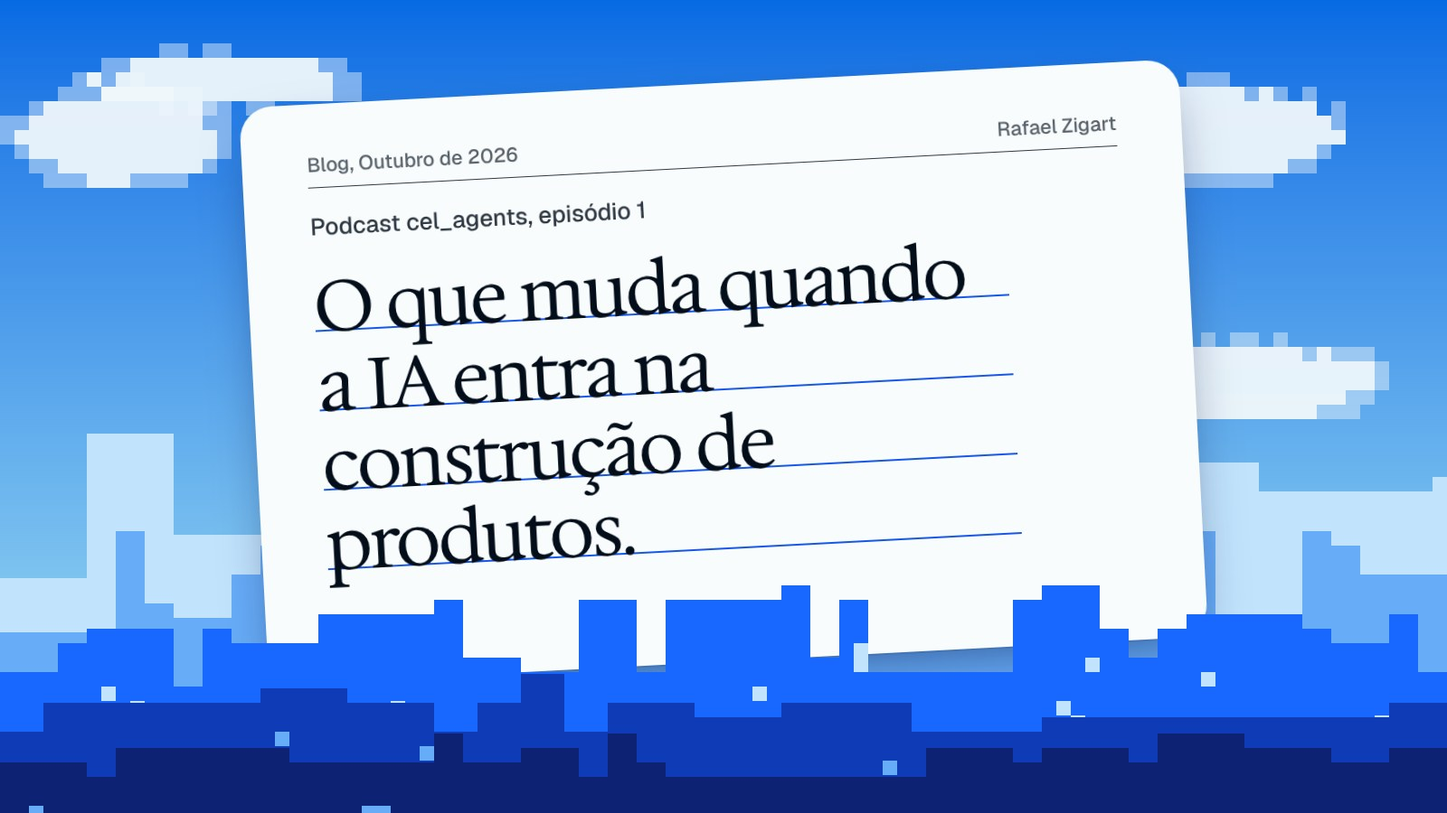
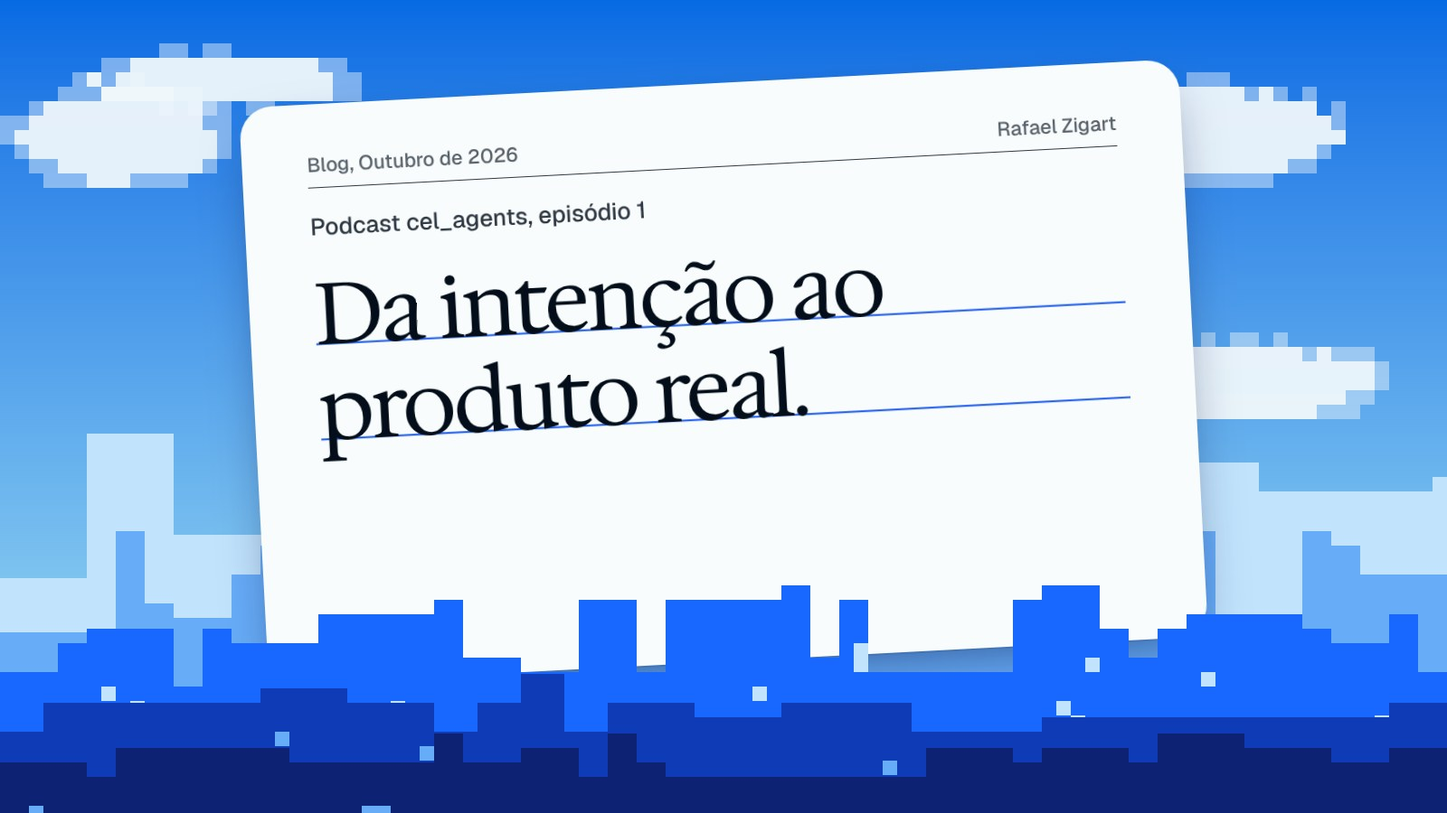
Posts dos episódios 1 e 3 do cel_agents (#17)
Claude-Session: https://claude.ai/code/session_01RRVHz4eTtsGg1hUuv1ogdm

Changed region(s): [[0.2188, 0.3111, 0.75, 0.7156], [0.6875, 0.4667, 0.7812, 0.4978], [0.6562, 0.4356, 0.6875, 0.4667]]

diff --git a/blog/ia-na-construcao-de-produtos-financeiros.html b/blog/ia-na-construcao-de-produtos-financeiros.html
@@ -3,22 +3,22 @@
 <head>
 <meta charset="utf-8">
 <meta name="viewport" content="width=device-width, initial-scale=1">
-<title>O que muda quando a IA entra na construção de produtos, Rafael Zigart</title>
-<meta name="description" content="Rafael Zigart conversa com Adriano Meirinho sobre IA na construção de produtos financeiros, no primeiro episódio da série sobre o cel_agents.">
+<title>Da intenção ao produto real: o que muda quando a IA entra na construção de produtos financeiros, Rafael Zigart</title>
+<meta name="description" content="Rafael Zigart conta, a partir do episódio 1 do cel_agents, por que colocar um produto financeiro no ar levava de três a dez meses e o que muda quando a IA participa desde o começo.">
 <link rel="icon" href="../favicon.svg" type="image/svg+xml">
 <link rel="canonical" href="https://rafaelribeirozigart.github.io/zigart.com/blog/ia-na-construcao-de-produtos-financeiros.html">
 <meta name="author" content="Rafael Zigart">
 <meta property="og:type" content="article">
 <meta property="og:site_name" content="Rafael Zigart">
 <meta property="og:locale" content="pt_BR">
-<meta property="og:title" content="O que muda quando a IA entra na construção de produtos, Rafael Zigart">
-<meta property="og:description" content="Rafael Zigart conversa com Adriano Meirinho sobre IA na construção de produtos financeiros, no primeiro episódio da série sobre o cel_agents.">
+<meta property="og:title" content="Da intenção ao produto real: o que muda quando a IA entra na construção de produtos financeiros">
+<meta property="og:description" content="Rafael Zigart conta, a partir do episódio 1 do cel_agents, por que colocar um produto financeiro no ar levava de três a dez meses e o que muda quando a IA participa desde o começo.">
 <meta property="og:url" content="https://rafaelribeirozigart.github.io/zigart.com/blog/ia-na-construcao-de-produtos-financeiros.html">
 <meta property="og:image" content="https://rafaelribeirozigart.github.io/zigart.com/images/blog/ia-na-construcao-de-produtos-financeiros.jpg">
 <meta property="og:image:width" content="1600">
 <meta property="og:image:height" content="900">
 <meta name="twitter:card" content="summary_large_image">
-<script type="application/ld+json">{"@context": "https://schema.org", "@type": "BlogPosting", "headline": "O que muda quando a IA entra na construção de produtos", "inLanguage": "pt-BR", "datePublished": "2026-10-29", "image": "https://rafaelribeirozigart.github.io/zigart.com/images/blog/ia-na-construcao-de-produtos-financeiros.jpg", "author": {"@type": "Person", "name": "Rafael Zigart", "url": "https://rafaelribeirozigart.github.io/zigart.com/"}, "mainEntityOfPage": "https://rafaelribeirozigart.github.io/zigart.com/blog/ia-na-construcao-de-produtos-financeiros.html"}</script>
+<script type="application/ld+json">{"@context": "https://schema.org", "@type": "BlogPosting", "headline": "Da intenção ao produto real: o que muda quando a IA entra na construção de produtos financeiros", "description": "Rafael Zigart conta, a partir do episódio 1 do cel_agents, por que colocar um produto financeiro no ar levava de três a dez meses e o que muda quando a IA participa desde o começo.", "inLanguage": "pt-BR", "datePublished": "2026-10-29", "image": "https://rafaelribeirozigart.github.io/zigart.com/images/blog/ia-na-construcao-de-produtos-financeiros.jpg", "author": {"@type": "Person", "name": "Rafael Zigart", "url": "https://rafaelribeirozigart.github.io/zigart.com/"}, "mainEntityOfPage": "https://rafaelribeirozigart.github.io/zigart.com/blog/ia-na-construcao-de-produtos-financeiros.html", "about": {"@type": "PodcastEpisode", "name": "A nova fronteira da IA no setor financeiro, episódio 1", "url": "https://www.youtube.com/watch?v=ND6KEQ3miMg"}}</script>
 <link rel="preconnect" href="https://fonts.googleapis.com">
 <link rel="preconnect" href="https://fonts.gstatic.com" crossorigin>
 <link href="https://fonts.googleapis.com/css2?family=Hedvig+Letters+Serif:opsz@12..24&family=Geist:wght@400;500&display=swap" rel="stylesheet">
@@ -45,26 +45,56 @@
   <article class="article" aria-labelledby="page-title">
     <header class="article__head proof">
       <div class="container">
-        <p class="article__meta"><a class="link" href="./">Blog</a><span>Outubro de 2026, 2 minutos de leitura</span></p>
-        <h1 id="page-title">O que muda quando a IA entra na construção de produtos.</h1>
+        <p class="article__meta"><a class="link" href="./">Blog</a><span>Outubro de 2026</span><span>4 minutos de leitura</span><span>Podcast cel_agents, episódio 1</span></p>
+        <h1 id="page-title">Da intenção ao produto real.</h1>
       </div>
     </header>
     <div class="container">
-      <figure class="article__cover crop"><img src="../images/blog/ia-na-construcao-de-produtos-financeiros.jpg" width="1600" height="900" alt="Capa do post: o título sobre a grade de pontos, com as linhas de base em laranja" fetchpriority="high"></figure>
+      <figure class="article__cover crop"><img src="../images/blog/ia-na-construcao-de-produtos-financeiros.jpg" width="1600" height="900" alt="Capa do post: Da intenção ao produto real., sobre um cenário em pixel azul" fetchpriority="high"></figure>
       <div class="article__body">
-        <p class="article__lede">A inteligência artificial está mudando de papel no mercado financeiro. Mais do que apoiar tarefas, ela começa a participar da própria construção de produtos e experiências.</p>
-        <p>Foi sobre isso que conversei com Adriano Meirinho, cofundador, CMO e CAIO da Celcoin, no primeiro episódio da série “A nova fronteira da IA no setor financeiro”.</p>
-        <h2>O modelo tradicional</h2>
-        <p>Construir um produto financeiro passa por muita documentação técnica e por várias passagens entre Produto, Design e Engenharia. Cada passagem é um ponto onde a ideia pode atrasar ou mudar de forma.</p>
-        <h2>Onde a IA entra</h2>
-        <p>No cel_agents, a plataforma AI-first da Celcoin, a IA ajuda a encurtar a distância entre uma ideia e um produto pronto para ser testado e desenvolvido.</p>
-        <h2>O que vem</h2>
-        <p>Este é o primeiro de cinco episódios. Nos próximos, outras pessoas que participaram do desenvolvimento do cel_agents trazem suas perspectivas sobre essa nova fronteira e o que ela representa para quem desenvolve produtos e serviços financeiros.</p>
-        <aside class="article__cta" aria-label="Episódio">
-          <p>Episódio 1 de “A nova fronteira da IA no setor financeiro”.</p>
+        <p class="article__lede">Antes de a primeira linha de código ser escrita, um produto financeiro já percorreu um caminho longo. Foi sobre esse caminho, e sobre como encurtá-lo, que conversei com Adriano Meirinho no primeiro episódio da série “A nova fronteira da IA no setor financeiro”.</p>
+        <a class="watch crop" href="https://www.youtube.com/watch?v=ND6KEQ3miMg"><span class="watch__play" aria-hidden="true"></span><span><b>Assistir ao episódio 1</b><small>No YouTube da Celcoin, com Adriano Meirinho</small></span></a>
+        <h2>O caminho antes da primeira linha de código</h2>
+        <p>Pega o Pix como exemplo. A regra não nasce dentro da empresa: ela vem do Banco Central. Tem o regulamento, tem o guia de experiência, tem as boas práticas. Alguém precisa ler toda essa documentação, interpretar os endpoints, entender as regras de negócio e só depois desenhar o fluxo e prototipar.</p>
+        <p>E esse é só o primeiro desafio. O segundo é que Produto, Design e Engenharia trabalham em etapas diferentes, com níveis diferentes de conhecimento técnico.</p>
+        <figure class="flow" aria-label="Diagrama: o caminho tradicional, com uma tradução a cada passagem entre áreas">
+          <figcaption class="flow__cap">Antes: uma tradução a cada passagem</figcaption>
+          <ol class="flow__row">
+            <li class="flow__node flow__node--src">Regulamento e documentação</li>
+            <li class="flow__node">Produto interpreta</li>
+            <li class="flow__node">Design prototipa</li>
+            <li class="flow__node">Engenharia implementa</li>
+          </ol>
+          <p class="flow__loop">Cada seta é uma chance de perder informação e voltar uma casa.</p>
+        </figure>
+        <p>Cada passagem de bastão é uma tradução, e cada tradução abre espaço para ajuste e retrabalho. O desafio real é transformar a visão de produto numa implementação que respeite, ao mesmo tempo, os requisitos técnicos e os regulatórios.</p>
+        <aside class="stat"><b>3 a 10 meses</b><span>é quanto esse ciclo pode levar, dependendo do porte e da complexidade do produto. Não é trivial.</span></aside>
+        <h2>A IA muda de posição</h2>
+        <p>A mudança não é a IA chegar no fim para acelerar uma tarefa isolada. O cel_agents nasce AI-first: a IA participa desde o começo.</p>
+        <p>O ponto de partida passa a ser a intenção, ou seja, o que eu quero oferecer para o meu cliente. A partir daí, a solução já carrega o contexto dos produtos financeiros da Celcoin, a documentação, as regras de negócio e as boas práticas de experiência, e apoia a implementação até o ponto de testar a jornada no sandbox.</p>
+        <h2>Duas camadas, um mesmo artefato</h2>
+        <p>Isso acontece em duas camadas. No <strong>Studio</strong>, Produto e Design configuram a experiência. O <strong>MCP</strong> (Model Context Protocol, o padrão que conecta modelos de IA a ferramentas e dados) leva esse mesmo contexto para o ambiente de desenvolvimento da Engenharia.</p>
+        <figure class="flow flow--after" aria-label="Diagrama: com o cel_agents, Produto, Design e Engenharia partem da mesma definição">
+          <figcaption class="flow__cap">Com o cel_agents: uma definição, três áreas</figcaption>
+          <div class="flow__hub">
+            <p class="flow__core">A mesma definição<small>Contexto dos produtos, regras e boas práticas</small></p>
+            <ul class="flow__spokes"><li><b>Produto</b>no Studio, escolhe jornadas</li><li><b>Design</b>no Studio, desenha a experiência</li><li><b>Engenharia</b>pelo MCP, no ambiente de desenvolvimento</li></ul>
+          </div>
+        </figure>
+        <p>O mais importante: todo mundo trabalha sobre uma mesma definição. Não é uma cópia para cada área, é o mesmo artefato. Com isso, a distância entre a ideia, o protótipo e o que efetivamente vai ser desenvolvido fica muito menor.</p>
+        <blockquote class="pull"><p>No fundo, a proposta é uma só: encurtar a distância entre a intenção e o produto real.</p></blockquote>
+        <h2>O ganho está no ciclo, não só no código</h2>
+        <p>Quando você vai construir um internet banking, as perguntas difíceis vêm antes do código:</p>
+        <ul class="qs"><li>Qual onboarding eu preciso?</li><li>Como funciona o extrato?</li><li>Como faço a gestão de saldo?</li><li>Que regra se aplica a cada tela?</li></ul>
+        <p>É aí que o tempo se perde, nas idas e vindas entre Produto, Design e Engenharia até todo mundo chegar na mesma resposta. Com o cel_agents, essas respostas já estão no contexto.</p>
+        <p>Isso reduz retrabalho e dá autonomia para o time experimentar e validar uma experiência antes de avançar para o desenvolvimento. O time gasta menos energia com a mecânica da construção e mais com a experiência que quer entregar para o cliente.</p>
+        <h2>Para levar daqui</h2>
+        <ul class="takeaways"><li>Em produto financeiro, boa parte do trabalho acontece antes do código: ler regras, interpretar endpoints, alinhar áreas.</li><li>Cada passagem entre áreas é uma tradução, e tradução gera retrabalho.</li><li>Quando a IA participa desde a intenção, o contexto viaja junto e todo mundo trabalha sobre a mesma definição.</li></ul>
+        <aside class="article__cta" aria-label="Continue">
+          <p>Este texto é a minha versão escrita da conversa. O episódio completo está no YouTube.</p>
           <div class="actions">
-            <a class="btn btn--primary crop" href="https://www.youtube.com/watch?v=ND6KEQ3miMg">Assistir no YouTube</a>
-            <a class="link" href="https://celcoin.ai">Conhecer o cel_agents</a>
+            <a class="btn btn--primary crop" href="https://www.youtube.com/watch?v=ND6KEQ3miMg">Assistir ao episódio 1</a>
+            <a class="link" href="produto-design-engenharia-mesma-definicao.html">Ler o episódio 3</a>
           </div>
         </aside>
       </div>

diff --git a/blog/produto-design-engenharia-mesma-definicao.html b/blog/produto-design-engenharia-mesma-definicao.html
@@ -1,0 +1,114 @@
+<!doctype html>
+<html lang="pt-BR">
+<head>
+<meta charset="utf-8">
+<meta name="viewport" content="width=device-width, initial-scale=1">
+<title>A velocidade vem de conectar as etapas: Produto, Design e Engenharia na mesma definição, Rafael Zigart</title>
+<meta name="description" content="No episódio 3 do cel_agents, Rafael Zigart explica por que existe tanta distância entre quem desenha e quem constrói um produto financeiro, e como aproximar os times sem transformar todo mundo em desenvolvedor.">
+<link rel="icon" href="../favicon.svg" type="image/svg+xml">
+<link rel="canonical" href="https://rafaelribeirozigart.github.io/zigart.com/blog/produto-design-engenharia-mesma-definicao.html">
+<meta name="author" content="Rafael Zigart">
+<meta property="og:type" content="article">
+<meta property="og:site_name" content="Rafael Zigart">
+<meta property="og:locale" content="pt_BR">
+<meta property="og:title" content="A velocidade vem de conectar as etapas: Produto, Design e Engenharia na mesma definição">
+<meta property="og:description" content="No episódio 3 do cel_agents, Rafael Zigart explica por que existe tanta distância entre quem desenha e quem constrói um produto financeiro, e como aproximar os times sem transformar todo mundo em desenvolvedor.">
+<meta property="og:url" content="https://rafaelribeirozigart.github.io/zigart.com/blog/produto-design-engenharia-mesma-definicao.html">
+<meta property="og:image" content="https://rafaelribeirozigart.github.io/zigart.com/images/blog/produto-design-engenharia-mesma-definicao.jpg">
+<meta property="og:image:width" content="1600">
+<meta property="og:image:height" content="900">
+<meta name="twitter:card" content="summary_large_image">
+<script type="application/ld+json">{"@context": "https://schema.org", "@type": "BlogPosting", "headline": "A velocidade vem de conectar as etapas: Produto, Design e Engenharia na mesma definição", "description": "No episódio 3 do cel_agents, Rafael Zigart explica por que existe tanta distância entre quem desenha e quem constrói um produto financeiro, e como aproximar os times sem transformar todo mundo em desenvolvedor.", "inLanguage": "pt-BR", "datePublished": "2026-10-30", "image": "https://rafaelribeirozigart.github.io/zigart.com/images/blog/produto-design-engenharia-mesma-definicao.jpg", "author": {"@type": "Person", "name": "Rafael Zigart", "url": "https://rafaelribeirozigart.github.io/zigart.com/"}, "mainEntityOfPage": "https://rafaelribeirozigart.github.io/zigart.com/blog/produto-design-engenharia-mesma-definicao.html", "about": {"@type": "PodcastEpisode", "name": "A nova fronteira da IA no setor financeiro, episódio 3", "url": "https://www.youtube.com/watch?v=YzYqQN7EwKs"}}</script>
+<link rel="preconnect" href="https://fonts.googleapis.com">
+<link rel="preconnect" href="https://fonts.gstatic.com" crossorigin>
+<link href="https://fonts.googleapis.com/css2?family=Hedvig+Letters+Serif:opsz@12..24&family=Geist:wght@400;500&display=swap" rel="stylesheet">
+<script>(function(){var d=document.documentElement;d.classList.add('js');try{var n=sessionStorage.getItem('zc');if(n&&!matchMedia('(prefers-reduced-motion: reduce)').matches){d.classList.add('is-entering');d.setAttribute('data-curtain',n);sessionStorage.removeItem('zc');setTimeout(function(){d.classList.remove('is-entering','is-revealing');},2500);}}catch(e){}})();</script>
+<script src="../js/site.js" defer></script>
+<link rel="stylesheet" href="../css/site.css">
+</head>
+<body>
+<a class="skip" href="#main">Pular para o conteúdo</a>
+
+<header class="nav proof">
+    <div class="container">
+      <a class="wordmark" href="../index.html" aria-label="Rafael Zigart, início">Rafael Zigart</a>
+      <div class="nav__right">
+        <nav aria-label="Principal">
+          <ul class="nav__links"><li><a href="../carreira.html">Carreira</a></li><li><a href="../mizoor.html">Mizoor</a></li><li><a href="../blog/" aria-current="page">Blog</a></li><li><a href="../midia.html">Vídeos e podcasts</a></li></ul>
+        </nav>
+        <a class="btn crop" href="../contato.html">Falar comigo</a>
+      </div>
+    </div>
+  </header>
+
+<main id="main">
+  <article class="article" aria-labelledby="page-title">
+    <header class="article__head proof">
+      <div class="container">
+        <p class="article__meta"><a class="link" href="./">Blog</a><span>Outubro de 2026</span><span>3 minutos de leitura</span><span>Podcast cel_agents, episódio 3</span></p>
+        <h1 id="page-title">A velocidade vem de conectar as etapas.</h1>
+      </div>
+    </header>
+    <div class="container">
+      <figure class="article__cover crop"><img src="../images/blog/produto-design-engenharia-mesma-definicao.jpg" width="1600" height="900" alt="Capa do post: A velocidade vem de conectar as etapas., sobre um cenário em pixel azul" fetchpriority="high"></figure>
+      <div class="article__body">
+        <p class="article__lede">Produto imagina uma experiência, Design transforma essa ideia numa jornada e Engenharia precisa descobrir como torná-la realidade. No terceiro episódio da série, voltei a conversar com Adriano Meirinho sobre o que acontece entre essas três etapas.</p>
+        <a class="watch crop" href="https://www.youtube.com/watch?v=YzYqQN7EwKs"><span class="watch__play" aria-hidden="true"></span><span><b>Assistir ao episódio 3</b><small>No YouTube da Celcoin, com Adriano Meirinho</small></span></a>
+        <h2>Por que existe tanta distância</h2>
+        <p>Porque a matéria-prima do produto financeiro é técnica. A documentação fala a língua de endpoints, especificações e regras. Essa língua é nativa para a Engenharia, mas nem sempre é acessível do mesmo jeito para quem é PM ou designer.</p>
+        <p>O resultado é que o protótipo muitas vezes nasce separado das regras que depois vão determinar a implementação. O design fica bonito, a jornada faz sentido, e só lá na frente alguém descobre que o endpoint não retorna aquele dado, ou que a regra exige um passo a mais.</p>
+        <figure class="flow" aria-label="Diagrama: o caminho tradicional, com uma tradução a cada passagem entre áreas">
+          <figcaption class="flow__cap">Antes: uma tradução a cada passagem</figcaption>
+          <ol class="flow__row">
+            <li class="flow__node flow__node--src">Regulamento e documentação</li>
+            <li class="flow__node">Produto interpreta</li>
+            <li class="flow__node">Design prototipa</li>
+            <li class="flow__node">Engenharia implementa</li>
+          </ol>
+          <p class="flow__loop">Cada seta é uma chance de perder informação e voltar uma casa.</p>
+        </figure>
+        <p>Aí começa a sequência de traduções: Produto explica para Design, Design entrega para Engenharia, Engenharia devolve com ajustes. E em produto financeiro tem uma camada a mais, a regulatória, que não é negociável. Cada tradução é uma chance de perder informação, e cada perda vira retrabalho.</p>
+        <h2>Ninguém precisa virar desenvolvedor</h2>
+        <p>A proposta do cel_agents não é fazer todo mundo programar, nem substituir competência. Cada área continua fazendo o que sabe fazer. O que muda é que todo mundo parte do mesmo contexto.</p>
+        <dl class="roles">
+          <div><dt>Produto</dt><dd>No Studio, seleciona jornadas e funcionalidades direto do portfólio da Celcoin, em vez de descrever num documento o que quer.</dd></div>
+          <div><dt>Design</dt><dd>Trabalha a experiência white-label em cima dessas jornadas, já com as regras embutidas.</dd></div>
+          <div><dt>Engenharia</dt><dd>Recebe essa mesma definição pelo MCP, no próprio ambiente de desenvolvimento.</dd></div>
+        </dl>
+        <figure class="flow flow--after" aria-label="Diagrama: com o cel_agents, Produto, Design e Engenharia partem da mesma definição">
+          <figcaption class="flow__cap">Com o cel_agents: uma definição, três áreas</figcaption>
+          <div class="flow__hub">
+            <p class="flow__core">A mesma definição<small>Contexto dos produtos, regras e boas práticas</small></p>
+            <ul class="flow__spokes"><li><b>Produto</b>no Studio, escolhe jornadas</li><li><b>Design</b>no Studio, desenha a experiência</li><li><b>Engenharia</b>pelo MCP, no ambiente de desenvolvimento</li></ul>
+          </div>
+        </figure>
+        <p>Não é um documento traduzido, é o mesmo artefato. O que desaparece é a necessidade de traduzir a mesma intenção várias vezes entre áreas diferentes.</p>
+        <h2>O que fazer com o tempo que sobra</h2>
+        <p>O tempo que deixa de ir para as idas e vindas vai para onde gera mais valor:</p>
+        <ul class="takeaways"><li><b>Experimentar mais.</b> Dá para testar hipóteses antes e validar uma jornada antes de comprometer uma sprint de desenvolvimento.</li><li><b>Refazer menos.</b> O que foi desenhado já nasce conectado às regras.</li><li><b>Cada área no que faz melhor.</b> Produto e Design focam na experiência do usuário e no que diferencia o produto no mercado. Engenharia foca nos desafios de maior valor técnico, e não em interpretar documentação e reconstruir fluxo.</li></ul>
+        <blockquote class="pull"><p>A velocidade não vem de pular etapas. Em produto financeiro, as etapas existem por um motivo. A velocidade vem de conectar essas etapas, para que uma não precise refazer o trabalho da outra.</p></blockquote>
+        <h2>Para levar daqui</h2>
+        <ul class="qs"><li>O protótipo precisa nascer junto das regras, não antes delas.</li><li>Aproximar os times não é transformar todos em desenvolvedores, é dar a eles o mesmo ponto de partida.</li><li>Em produto regulado, velocidade é conexão entre etapas, não atalho.</li></ul>
+        <aside class="article__cta" aria-label="Continue">
+          <p>Este texto é a minha versão escrita da conversa. O episódio completo está no YouTube.</p>
+          <div class="actions">
+            <a class="btn btn--primary crop" href="https://www.youtube.com/watch?v=YzYqQN7EwKs">Assistir ao episódio 3</a>
+            <a class="link" href="ia-na-construcao-de-produtos-financeiros.html">Ler o episódio 1</a>
+          </div>
+        </aside>
+      </div>
+    </div>
+  </article>
+</main>
+
+<footer class="footer proof">
+  <div class="container">
+    <p class="footer__line">Escrevo sobre o que aprendi construindo produtos.</p>
+    <div class="footer__row">
+      <ul><li><a href="../index.html">Início</a></li><li><a href="../carreira.html">Carreira</a></li><li><a href="../mizoor.html">Mizoor</a></li><li><a href="../blog/">Blog</a></li><li><a href="../midia.html">Vídeos e podcasts</a></li><li><a href="../contato.html">Contato</a></li><li><a href="https://www.linkedin.com/in/rafael-zigart/">LinkedIn</a></li><li><a href="https://www.instagram.com/rafaelzigart/">Instagram</a></li><li><a href="https://github.com/RafaelRibeiroZigart">GitHub</a></li></ul>
+      <p>© 2026 Rafael Zigart</p>
+    </div>
+  </div>
+</footer>
+</body>
+</html>

diff --git a/css/site.css b/css/site.css
@@ -809,3 +809,47 @@ html.is-entering::after { content: attr(data-curtain); background: var(--pixel-1
 .wf--inicio .wf__main { padding-bottom: 1.4em; }
 .wf--inicio .wf__card { min-height: 7em; }
 .wf__search b { width: auto; aspect-ratio: 1; align-self: center; height: 2.8em; }
+
+/* Article blocks: watch link, flow diagrams, stat, pull quote, lists */
+.article__meta span + span::before { content: none; }
+.watch { display: flex; align-items: center; gap: var(--space-md); padding: var(--space-md) var(--space-lg); border-radius: var(--radius-card); background: var(--color-paper-hi); box-shadow: var(--shadow-sheet); color: var(--color-ink); text-decoration: none; --o: 10px; --l: 8px; transition: transform var(--dur-short) var(--ease-out); }
+.watch:hover { transform: translateY(-2px); }
+.watch:active { transform: none; }
+.watch:focus-visible { outline: 2px solid var(--color-focus); outline-offset: 4px; }
+.watch b { display: block; font: 400 var(--text-lg)/1.2 var(--font-display); }
+.watch small { display: block; font-size: var(--text-sm); color: var(--color-muted); }
+.watch__play { flex-shrink: 0; width: 44px; height: 44px; border-radius: 4px; background: var(--color-accent); box-shadow: 4px 4px 0 var(--pixel-3); clip-path: none; position: relative; }
+.watch__play::after { content: ""; position: absolute; left: 17px; top: 13px; width: 14px; height: 18px; background: var(--color-accent-ink); clip-path: polygon(0 0, 100% 50%, 0 100%); }
+.flow { margin: var(--space-md) 0; padding: var(--space-xl) var(--space-lg); border-radius: var(--radius-card); background: var(--color-paper-2); }
+.flow__cap { margin-bottom: var(--space-lg); font-size: var(--text-sm); font-weight: 500; color: var(--color-muted); }
+.flow__row { display: grid; grid-template-columns: repeat(4, minmax(0, 1fr)); gap: var(--space-lg); margin: 0; padding: 0; list-style: none; }
+.flow__node { position: relative; display: grid; place-items: center; min-height: 84px; padding: var(--space-sm); border: 1.5px solid var(--color-ink-2); border-radius: 4px; background: var(--color-paper-hi); font: 400 var(--text-md)/1.25 var(--font-display); color: var(--color-ink); text-align: center; }
+.flow__node--src { border-style: dashed; }
+.flow__node:not(:last-child)::after { content: ""; position: absolute; right: calc(-1 * var(--space-lg)); top: 50%; width: var(--space-lg); height: 2px; background: repeating-linear-gradient(90deg, var(--color-accent) 0 4px, transparent 4px 7px); }
+.flow__loop { margin-top: var(--space-md); font-size: var(--text-sm); color: var(--color-ink-2); }
+.flow__hub { display: grid; gap: var(--space-lg); justify-items: center; }
+.flow__core { margin: 0; padding: var(--space-md) var(--space-xl); border-radius: 4px; background: var(--color-accent); color: var(--color-accent-ink); font: 400 var(--text-lg)/1.2 var(--font-display); text-align: center; box-shadow: 6px 6px 0 var(--pixel-3); }
+.flow__core small { display: block; margin-top: var(--space-2xs); font: 500 var(--text-sm)/1.3 var(--font-body); color: var(--color-accent-ink); }
+.flow__spokes { display: grid; grid-template-columns: repeat(3, minmax(0, 1fr)); gap: var(--space-md); width: 100%; margin: 0; padding: var(--space-md) 0 0; list-style: none; border-top: 2px dashed var(--color-accent); }
+.flow__spokes li { padding: var(--space-sm) var(--space-md); border: 1.5px solid var(--color-ink-2); border-radius: 4px; background: var(--color-paper-hi); font-size: var(--text-sm); line-height: 1.4; color: var(--color-ink-2); }
+.flow__spokes b { display: block; font: 400 var(--text-md)/1.2 var(--font-display); color: var(--color-ink); }
+.stat { display: grid; grid-template-columns: auto minmax(0, 1fr); gap: var(--space-lg); align-items: center; margin: var(--space-md) 0; padding: var(--space-lg) 0; border-top: var(--rule-hair) solid var(--color-ink); border-bottom: var(--rule-hair) solid var(--color-ink); }
+.stat b { font: 400 var(--text-display-s)/1 var(--font-display); letter-spacing: var(--tracking-display); color: var(--color-accent); white-space: nowrap; font-variant-numeric: tabular-nums; }
+.stat span { color: var(--color-ink-2); }
+.pull { position: relative; margin: var(--space-xl) 0; padding: var(--space-lg) 0 0; border-top: var(--rule-hair) solid var(--color-ink); }
+.pull::before { content: ""; position: absolute; left: 0; top: -6px; width: 12px; height: 12px; background: var(--color-accent); }
+.pull p { font: 400 var(--text-xl)/1.35 var(--font-display); color: var(--color-ink); }
+.qs, .takeaways { margin: 0; padding: 0; list-style: none; display: grid; gap: var(--space-sm); }
+.qs li, .takeaways li { position: relative; padding-left: var(--space-lg); }
+.qs li::before, .takeaways li::before { content: ""; position: absolute; left: 0; top: 0.65em; width: 8px; height: 8px; background: var(--color-accent); border-radius: 1px; }
+.takeaways b { color: var(--color-ink); font-weight: 500; }
+.roles { margin: 0; display: grid; gap: var(--space-sm); }
+.roles > div { display: grid; grid-template-columns: 9rem minmax(0, 1fr); gap: var(--space-md); padding-block: var(--space-sm); border-top: var(--rule-hair) solid var(--color-rule); }
+.roles dt { font: 400 var(--text-lg)/1.3 var(--font-display); color: var(--color-ink); }
+.roles dd { margin: 0; }
+@media (max-width: 40rem) {
+  .flow__row, .flow__spokes { grid-template-columns: minmax(0, 1fr); }
+  .flow__node:not(:last-child)::after { right: auto; left: 50%; top: auto; bottom: calc(-1 * var(--space-lg)); width: 2px; height: var(--space-lg); background: repeating-linear-gradient(180deg, var(--color-accent) 0 4px, transparent 4px 7px); }
+  .stat, .roles > div { grid-template-columns: minmax(0, 1fr); }
+}
+@media (prefers-reduced-motion: reduce) { .watch { transition: none; } .watch:hover { transform: none; } }

diff --git a/index.html b/index.html
@@ -108,11 +108,11 @@
           <span class="now__title">Produto, Design e Engenharia na mesma definição</span>
           <span class="now__go">Assistir no YouTube</span>
         </a>
-        <a class="now__card now__card--post crop" href="blog/ia-na-construcao-de-produtos-financeiros.html">
-          <img class="now__cover" src="images/blog/ia-na-construcao-de-produtos-financeiros.jpg" width="1600" height="900" alt="" loading="lazy">
+        <a class="now__card now__card--post crop" href="blog/produto-design-engenharia-mesma-definicao.html">
+          <img class="now__cover" src="images/blog/produto-design-engenharia-mesma-definicao.jpg" width="1600" height="900" alt="" loading="lazy">
           <span class="now__meta">No blog</span>
-          <span class="now__title now__title--l">O que muda quando a IA entra na construção de produtos.</span>
-          <span class="now__line">A conversa com Adriano Meirinho, em texto.</span>
+          <span class="now__title now__title--l">A velocidade vem de conectar as etapas.</span>
+          <span class="now__line">O episódio 3, em texto.</span>
           <span class="now__go">Ler o post</span>
         </a>
       </div>
@@ -122,7 +122,7 @@
   <section class="section" id="trajetoria" aria-labelledby="career-title">
     <div class="container">
       <div class="head"><h2 id="career-title">Onde trabalhei, do mais recente.</h2></div>
-      <ul class="set summary"><li><a class="sum" href="carreira.html#c1"><span class="sum__years">Hoje</span><span class="sum__role">Head de AI Product</span><span class="sum__org">Celcoin</span><span class="sum__go" aria-hidden="true">+</span></a></li><li><a class="sum" href="carreira.html#c2"><span class="sum__years">2022</span><span class="sum__role">Head of Product Marketing e Product Design</span><span class="sum__org">Celcoin</span><span class="sum__go" aria-hidden="true">+</span></a></li><li><a class="sum" href="carreira.html#c3"><span class="sum__years">2020 a 2021</span><span class="sum__role">Senior Product Manager</span><span class="sum__org">Celcoin</span><span class="sum__go" aria-hidden="true">+</span></a></li><li><a class="sum" href="mizoor.html"><span class="sum__years">2019 a 2021</span><span class="sum__role">Founder</span><span class="sum__org">Mizoor</span><span class="sum__go" aria-hidden="true">+</span></a></li><li><a class="sum" href="carreira.html#c5"><span class="sum__years">2019 a 2020</span><span class="sum__role">Product Owner e Product Analyst</span><span class="sum__org">Beblue</span><span class="sum__go" aria-hidden="true">+</span></a></li><li><a class="sum" href="carreira.html#c6"><span class="sum__years">2017 a 2019</span><span class="sum__role">Analista de sistemas, Product Owner do Shell Box</span><span class="sum__org">Raízen</span><span class="sum__go" aria-hidden="true">+</span></a></li><li><a class="sum" href="carreira.html#c7"><span class="sum__years">2017</span><span class="sum__role">Iniciação científica BICSAL/CNPq</span><span class="sum__org">UNISAL</span><span class="sum__go" aria-hidden="true">+</span></a></li><li><a class="sum" href="carreira.html#c8"><span class="sum__years">2015 a 2017</span><span class="sum__role">Estagiário em projetos de TI</span><span class="sum__org">Raízen</span><span class="sum__go" aria-hidden="true">+</span></a></li></ul>
+      <ul class="set summary"><li><a class="sum" href="carreira.html#c1"><span class="sum__years">Hoje</span><span class="sum__role">Head de AI Product</span><span class="sum__org">Celcoin</span><span class="sum__go" aria-hidden="true">+</span></a></li><li><a class="sum" href="carreira.html#c2"><span class="sum__years">2022</span><span class="sum__role">Head of Product Marketing e Product Design</span><span class="sum__org">Celcoin</span><span class="sum__go" aria-hidden="true">+</span></a></li><li><a class="sum" href="carreira.html#c3"><span class="sum__years">2020 a 2021</span><span class="sum__role">Senior Product Manager</span><span class="sum__org">Celcoin</span><span class="sum__go" aria-hidden="true">+</span></a></li><li><a class="sum" href="mizoor.html"><span class="sum__years">2019 a 2021</span><span class="sum__role">Founder</span><span class="sum__org">Mizoor</span><span class="sum__go" aria-hidden="true">+</span></a></li><li><a class="sum" href="carreira.html#c5"><span class="sum__years">2019 a 2020</span><span class="sum__role">Product Owner e Product Analyst</span><span class="sum__org">Beblue</span><span class="sum__go" aria-hidden="true">+</span></a></li><li><a class="sum" href="carreira.html#c6"><span class="sum__years">2017 a 2019</span><span class="sum__role">Analista de sistemas, Product Owner do Shell Box</span><span class="sum__org">Raízen</span><span class="sum__go" aria-hidden="true">+</span></a></li><li><a class="sum" href="carreira.html#c7"><span class="sum__years">2017</span><span class="sum__role">Iniciação científica BICSAL/CNPq</span><span class="sum__org">Unisal</span><span class="sum__go" aria-hidden="true">+</span></a></li><li><a class="sum" href="carreira.html#c8"><span class="sum__years">2015 a 2017</span><span class="sum__role">Estagiário em projetos de TI</span><span class="sum__org">Raízen</span><span class="sum__go" aria-hidden="true">+</span></a></li></ul>
       <div class="summary__more"><a class="btn crop" href="carreira.html">Ver a carreira completa</a></div>
     </div>
   </section>

diff --git a/blog/index.html b/blog/index.html
@@ -53,10 +53,16 @@
       <h2 class="visually-hidden" id="posts-title">Textos</h2>
       <ul class="set posts">
         <li class="post post--cover">
+          <a class="post__cover crop" href="produto-design-engenharia-mesma-definicao.html" tabindex="-1" aria-hidden="true"><img src="../images/blog/produto-design-engenharia-mesma-definicao.jpg" width="1600" height="900" alt="" loading="lazy"></a>
+          <span class="post__meta">Outubro de 2026, episódio 3</span>
+          <h3 class="post__title"><a href="produto-design-engenharia-mesma-definicao.html">A velocidade vem de conectar as etapas.</a></h3>
+          <p class="post__line">Produto, Design e Engenharia na mesma definição, sem ninguém virar desenvolvedor.</p>
+        </li>
+        <li class="post post--cover">
           <a class="post__cover crop" href="ia-na-construcao-de-produtos-financeiros.html" tabindex="-1" aria-hidden="true"><img src="../images/blog/ia-na-construcao-de-produtos-financeiros.jpg" width="1600" height="900" alt="" loading="lazy"></a>
-          <span class="post__meta">Outubro de 2026</span>
-          <h3 class="post__title"><a href="ia-na-construcao-de-produtos-financeiros.html">O que muda quando a IA entra na construção de produtos.</a></h3>
-          <p class="post__line">A conversa com Adriano Meirinho no primeiro episódio da série sobre o cel_agents.</p>
+          <span class="post__meta">Outubro de 2026, episódio 1</span>
+          <h3 class="post__title"><a href="ia-na-construcao-de-produtos-financeiros.html">Da intenção ao produto real.</a></h3>
+          <p class="post__line">Por que um produto financeiro levava de três a dez meses e o que muda com a IA desde o começo.</p>
         </li>
         <li class="post post--cover">
           <span class="post__cover crop" aria-hidden="true"><img src="../images/blog/programacao-desenvolvimento-infantil.jpg" width="1600" height="900" alt="" loading="lazy"></span>
